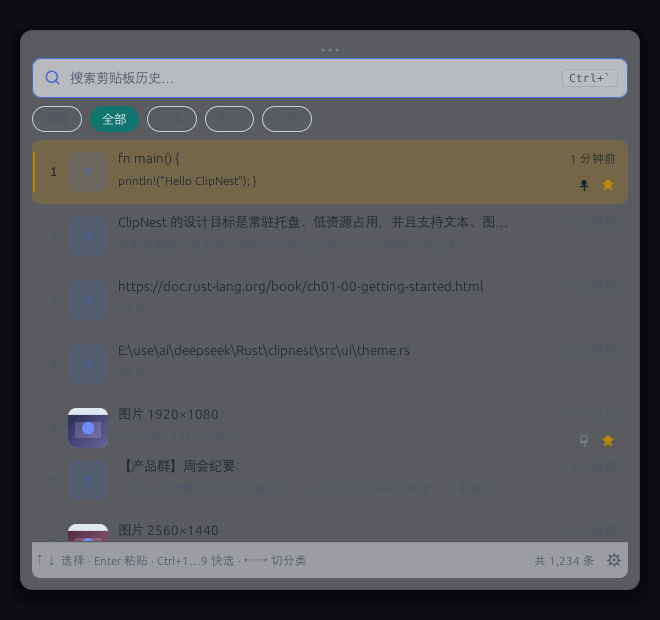
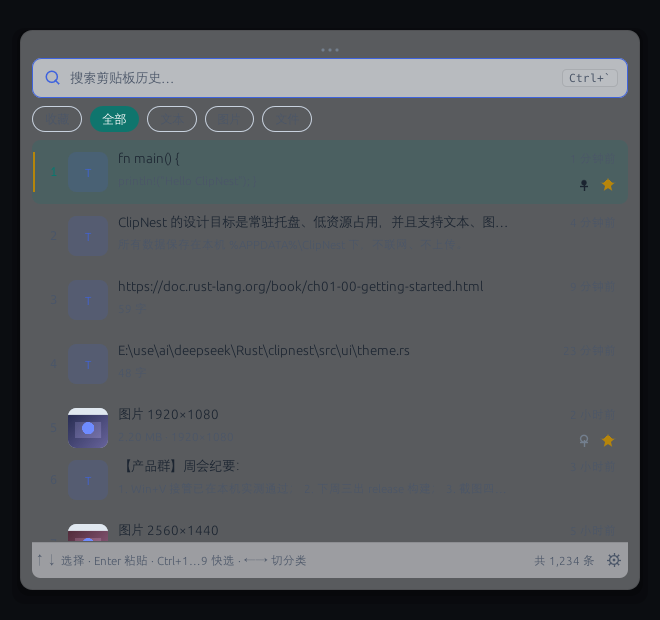
fix(ui): show pinned highlight only in favorites lists

Changed region(s): [[0.0303, 0.2145, 0.9697, 0.3371]]

diff --git a/src/ui/row.rs b/src/ui/row.rs
@@ -18,6 +18,8 @@ pub struct ClipRow<'a> {
     pub selected: bool,
     /// 当前列表中的序号（从 1 开始，不是数据库 id）。
     pub ordinal: usize,
+    /// 是否处于收藏列表：只有收藏列表才用金色标记置顶。
+    pub highlight_pinned: bool,
 }
 
 /// 列表行输出。
@@ -43,9 +45,10 @@ pub fn clip_row(ui: &mut egui::Ui, row: ClipRow<'_>) -> ClipRowOutput {
     let sel_t = if row.selected { 1.0 } else { 0.0 };
     let hover_t = ctx.animate_bool_with_time(response.id.with("hover"), response.hovered(), 0.08);
 
-    // 背景 / 左侧竖条：置顶行始终保留金色底，选中时更明显。
+    // 背景 / 左侧竖条：只有收藏列表用金色底标记置顶，其他列表保持普通选中态。
     let painter = ui.painter().clone();
-    if row.item.pinned {
+    let pinned_highlight = row.item.pinned && row.highlight_pinned;
+    if pinned_highlight {
         painter.rect_filled(
             rect,
             CornerRadius::same(theme::RADIUS_ROW),
@@ -96,7 +99,7 @@ pub fn clip_row(ui: &mut egui::Ui, row: ClipRow<'_>) -> ClipRowOutput {
         Align2::CENTER_CENTER,
         row.ordinal.to_string(),
         theme::font_mono(),
-        if row.selected && row.item.pinned {
+        if row.selected && pinned_highlight {
             theme::text()
         } else if row.selected {
             theme::selection_bar()
@@ -160,7 +163,7 @@ pub fn clip_row(ui: &mut egui::Ui, row: ClipRow<'_>) -> ClipRowOutput {
         Pos2::new(text_left, rect.top() + 34.0),
         subtitle,
         FontId::new(theme::SIZE_AUX, egui::FontFamily::Proportional),
-        if row.item.pinned {
+        if pinned_highlight {
             theme::text()
         } else {
             theme::text_secondary()
@@ -174,7 +177,7 @@ pub fn clip_row(ui: &mut egui::Ui, row: ClipRow<'_>) -> ClipRowOutput {
         Align2::RIGHT_TOP,
         fmt_relative_time(row.item.last_used_at),
         theme::font_aux(),
-        if row.item.pinned {
+        if pinned_highlight {
             theme::text()
         } else {
             theme::text_secondary()

diff --git a/src/ui/pages/history.rs b/src/ui/pages/history.rs
@@ -467,7 +467,7 @@ fn table(
                     );
                     let hovered = resp.hovered();
                     if selected_single || in_multi {
-                        let fill = if item.pinned {
+                        let fill = if pin_mode && item.pinned {
                             theme::pinned_fill_strong()
                         } else {
                             theme::accent_fill()
@@ -482,7 +482,7 @@ fn table(
                             ui.painter().rect_filled(
                                 bar,
                                 CornerRadius::same(1),
-                                if item.pinned {
+                                if pin_mode && item.pinned {
                                     theme::pinned()
                                 } else {
                                     theme::accent()
@@ -493,8 +493,8 @@ fn table(
                         ui.painter()
                             .rect_filled(row_rect, CornerRadius::ZERO, theme::hover_fill());
                     }
-                    // 置顶行始终叠一层金色底，和普通收藏行区分。
-                    if item.pinned {
+                    // 只有收藏页/收藏筛选下，置顶行才叠金色底。
+                    if pin_mode && item.pinned {
                         ui.painter()
                             .rect_filled(row_rect, CornerRadius::ZERO, theme::pinned_fill());
                     }

diff --git a/src/ui/picker.rs b/src/ui/picker.rs
@@ -307,6 +307,8 @@ fn render_list(
                         thumb: thumb.as_ref(),
                         selected,
                         ordinal: i + 1,
+                        highlight_pinned: state.picker_filter
+                            == crate::model::ClipFilter::Favorites,
                     },
                 );
                 if row.response.clicked() {

diff --git a/README.md b/README.md
@@ -234,6 +234,7 @@ clipnest.exe（单进程常驻）
 
 ## 更新记录
 
+- **v1.9.9**：**置顶金色标记仅在收藏列表显示**。剪贴板候选窗与历史/其他分类中，置顶条目不改变行背景，避免把普通列表误认为收藏页；只有收藏列表（含管理台「收藏」筛选）才用金色底标记置顶。置顶图钉按钮在所有列表仍可用于已收藏条目。
 - **v1.9.8**：**剪贴板面板置顶 + 窄窗口布局修复**。剪贴板面板的收藏行新增置顶图钉按钮，置顶行同样使用金色底色（选中时更明显），右键菜单在所有分类下都可置顶收藏项；管理台窄窗口下自动隐藏「来源/大小」列并压缩列宽，避免「内容摘要 / 时间」表头和数据重叠；详情面板的来源标题改为省略号截断，正文缺失时回退到摘要，避免右侧出现大片空白。
 - **v1.9.7**：**置顶可见性与输入法焦点修复**。置顶行使用金色特殊底色（选中时也保留），收藏星旁的置顶图标同步改为金色；收藏页进入时默认选中首行，工具栏「置顶 / 取消置顶」不再因无选中而消失，详情面板也增加独立的置顶按钮；修复中文输入法上屏回车后搜索框失焦、无法继续输入的问题，上屏帧主动收回焦点。
 - **v1.9.6**：**体验修复与配色可选**。删除提示 Toast 固定为浅色文字，浅色主题下不再黑字压深底；收藏页工具栏新增可见的「置顶 / 取消置顶」按钮，不必每次右键；修复中文输入法拼音尚未上屏就触发搜索/回车粘贴的问题（IME 组合期间不路由 Enter、不刷新搜索，上屏后才搜索）；外观新增「选中配色」，可在玉石青绿（默认）、靛蓝、琥珀三种强调色间切换，候选窗选中行/左侧竖条/过滤胶囊同步生效。

diff --git a/docs/ACCEPTANCE-RESULT.md b/docs/ACCEPTANCE-RESULT.md
@@ -601,3 +601,20 @@
 - `cargo test --release`：**158 passed / 0 failed / 1 ignored**。
 - 窄窗口截图：`docs/screenshots/manager-narrow.png`（885×558，表头与内容无重叠，详情无裁切）。
 - 剪贴板截图：`docs/screenshots/picker.png`（置顶行金色底 + 图钉/星标）。
+
+
+---
+
+## 27. v1.9.9（2026-11-04，置顶金色标记范围收敛）
+
+### 用户反馈
+- 只有收藏列表需要置顶特殊颜色，其他列表不用。
+
+### 修复
+- `src/ui/row.rs` 新增 `highlight_pinned`，仅当剪贴板当前筛选为「收藏」时才用金色底、金色竖条和高对比文字标记置顶行；其它分类保持普通选中/hover 样式。
+- `src/ui/pages/history.rs` 的金色置顶底也只在 `pin_mode`（收藏页或「收藏」筛选）时绘制；普通历史页选中置顶行仍使用正常选中色。
+- 置顶图钉按钮本身仍对所有已收藏条目显示，功能不受影响。
+
+### 校验
+- `cargo test --release`：**158 passed / 0 failed / 1 ignored**。
+- 剪贴板「全部」列表截图：`docs/screenshots/picker.png`（置顶行不再金色，仅保留图钉/星标）。
